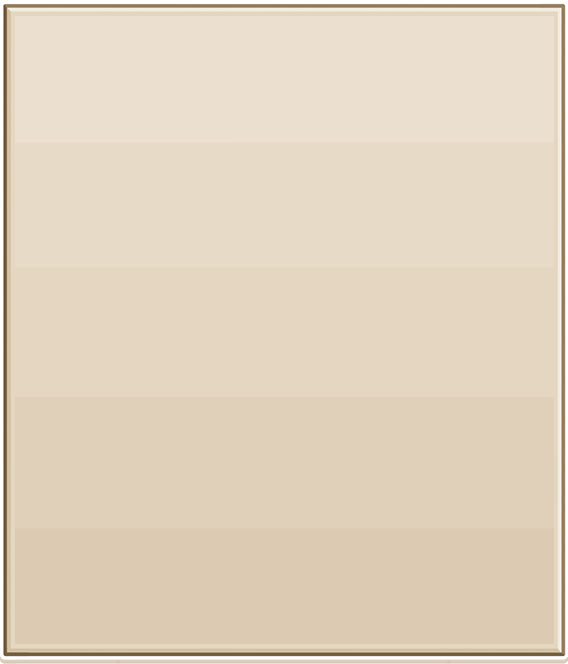
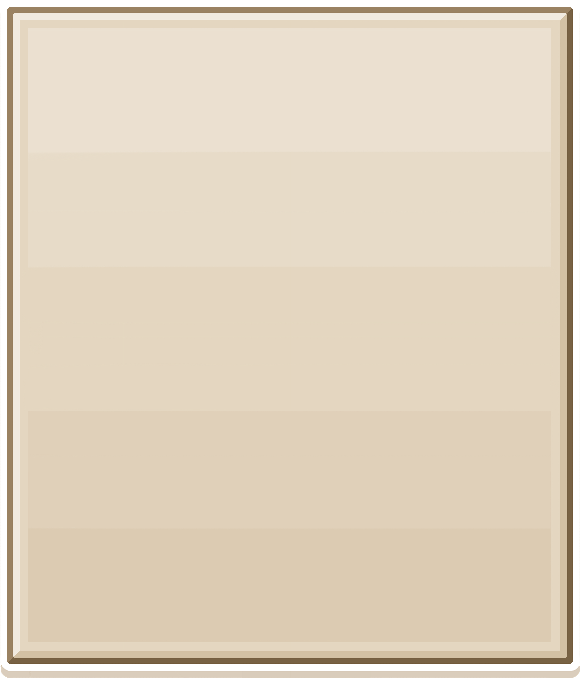
Updated Instructions_BG.png & removed redundant setFitWidth lines for it

Changed region(s): [[0.0, 0.0, 1.0, 1.0]]

diff --git a/src/main/java/com/example/theos/GameBoard.java b/src/main/java/com/example/theos/GameBoard.java
@@ -181,8 +181,6 @@ public class GameBoard {
 
         ImageView instructionsBG = new ImageView("images/gameboard_screen/Instructions_BG.png");
         instructionsBG.setOpacity(0.85);
-        instructionsBG.setFitWidth(580);
-        instructionsBG.setPreserveRatio(true);
 
         ImageView normalDieIMG = new ImageView("images/gameboard_screen/Game_Die_0.PNG");
         normalDieIMG.setFitWidth(140);
